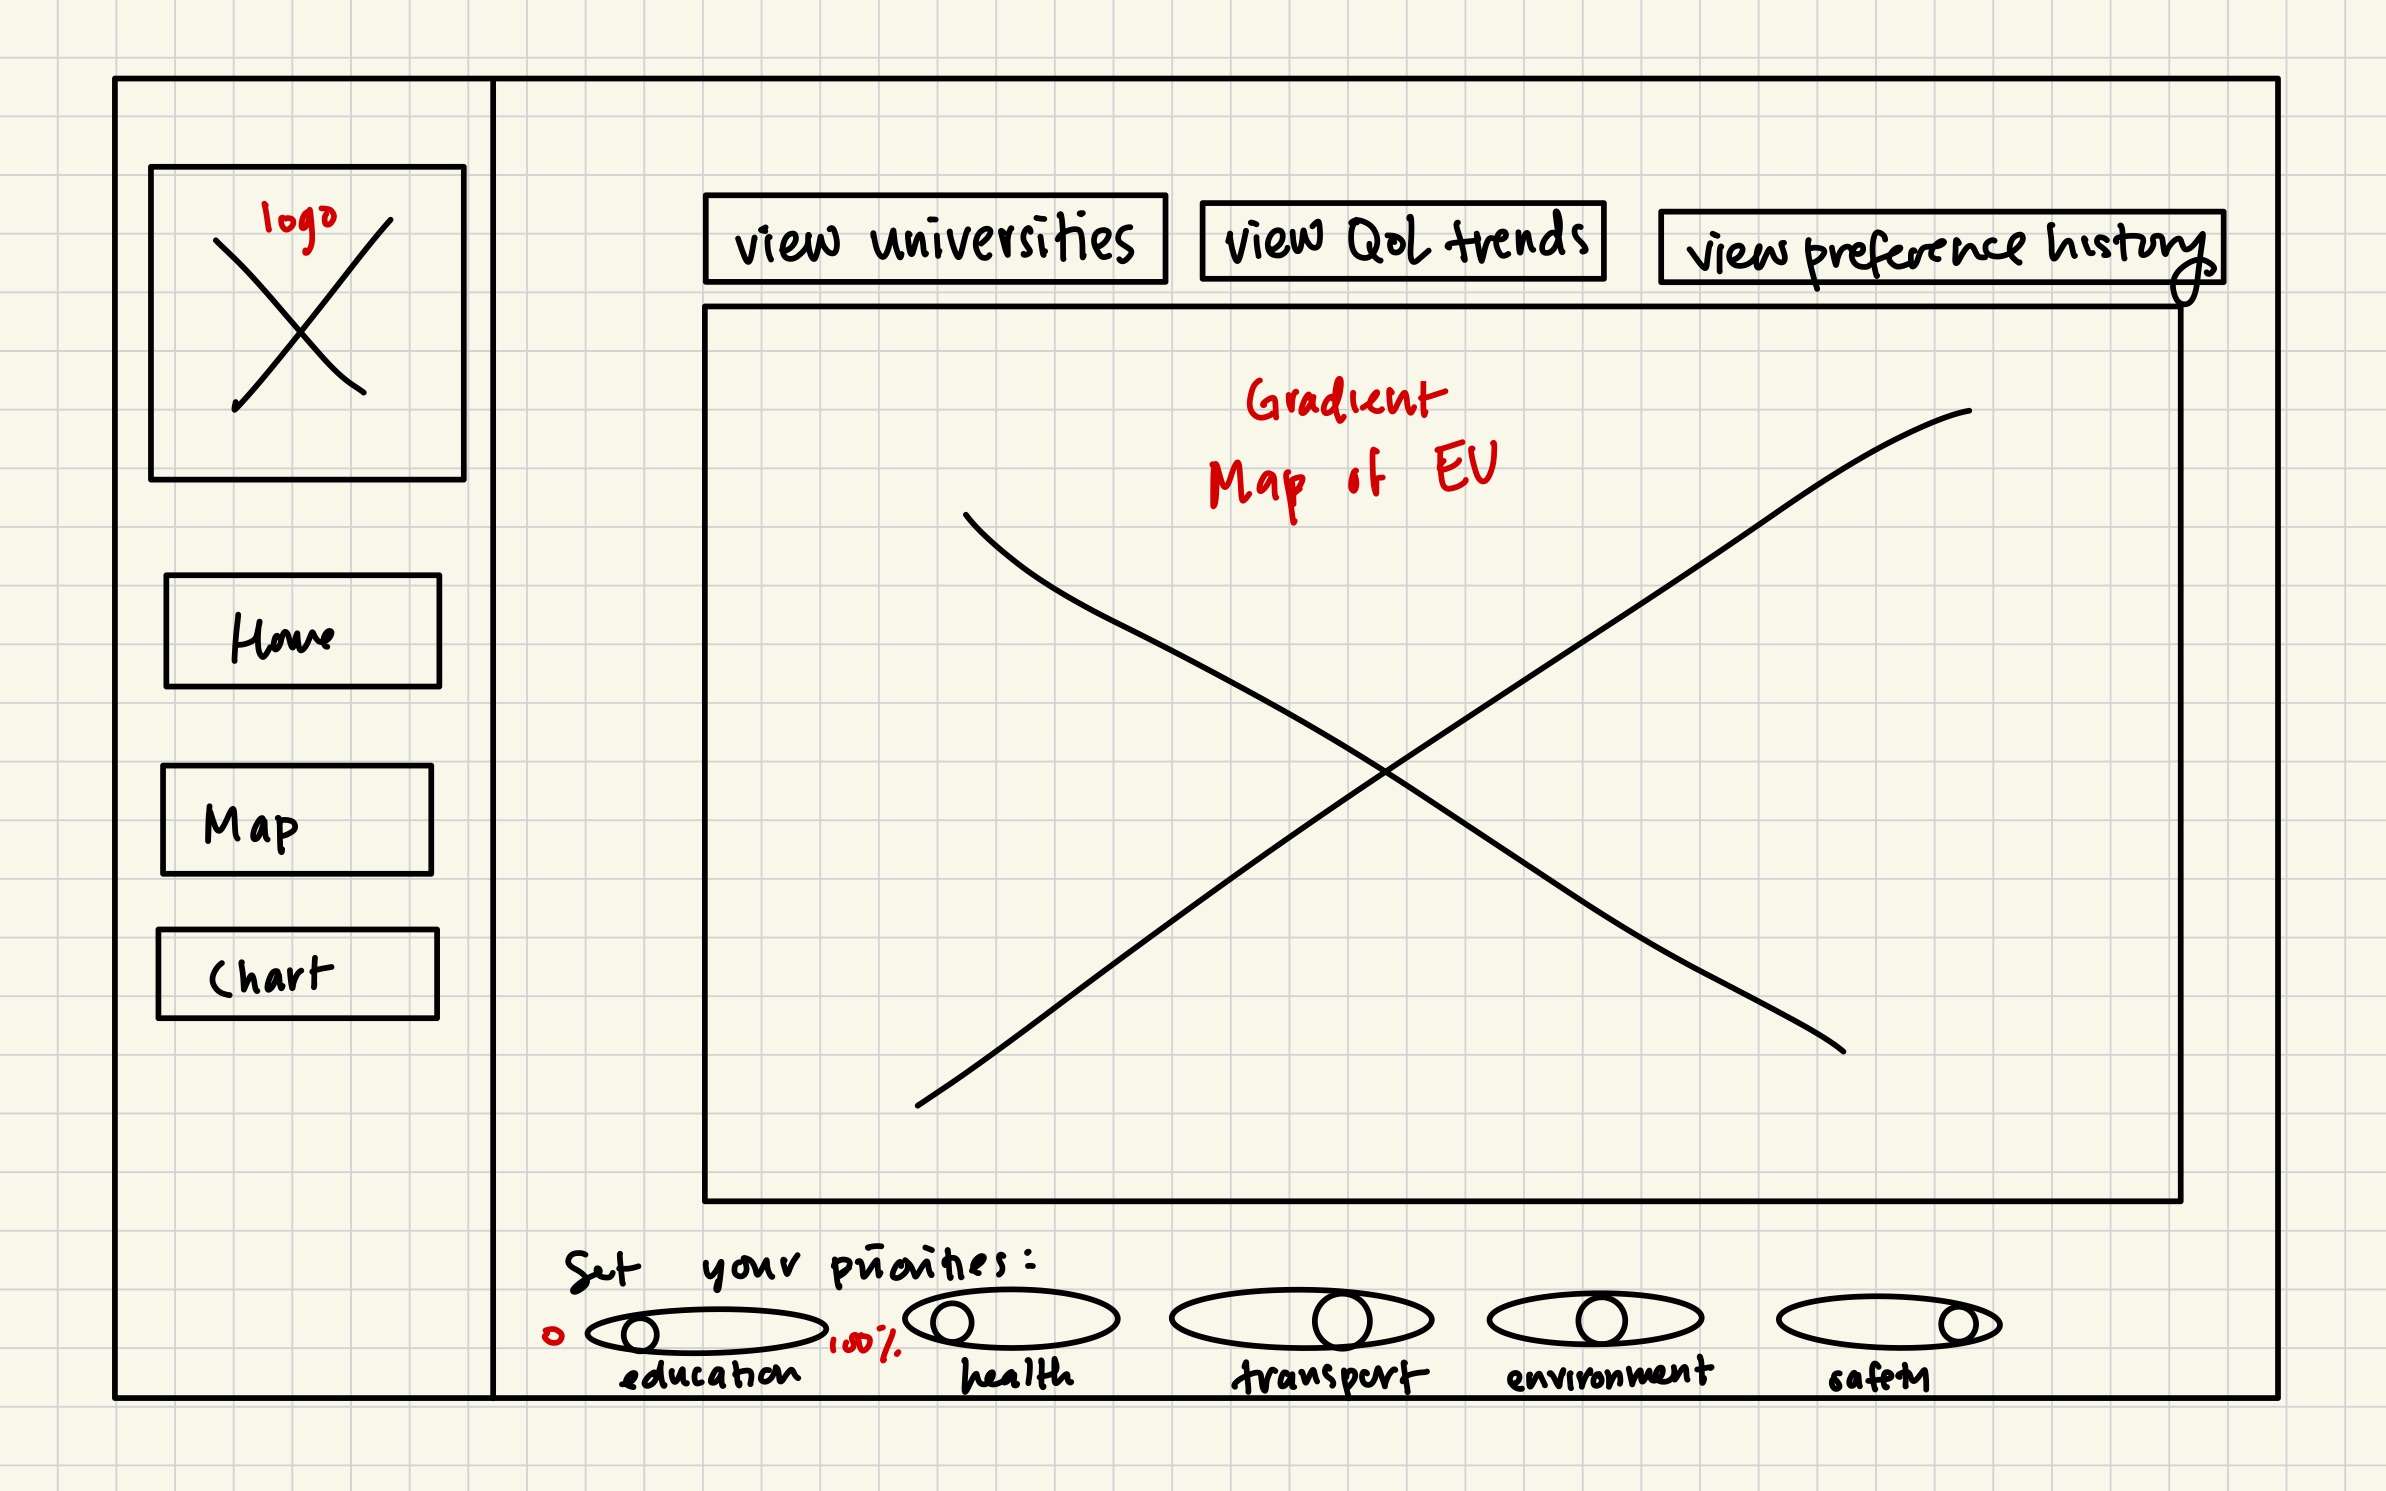
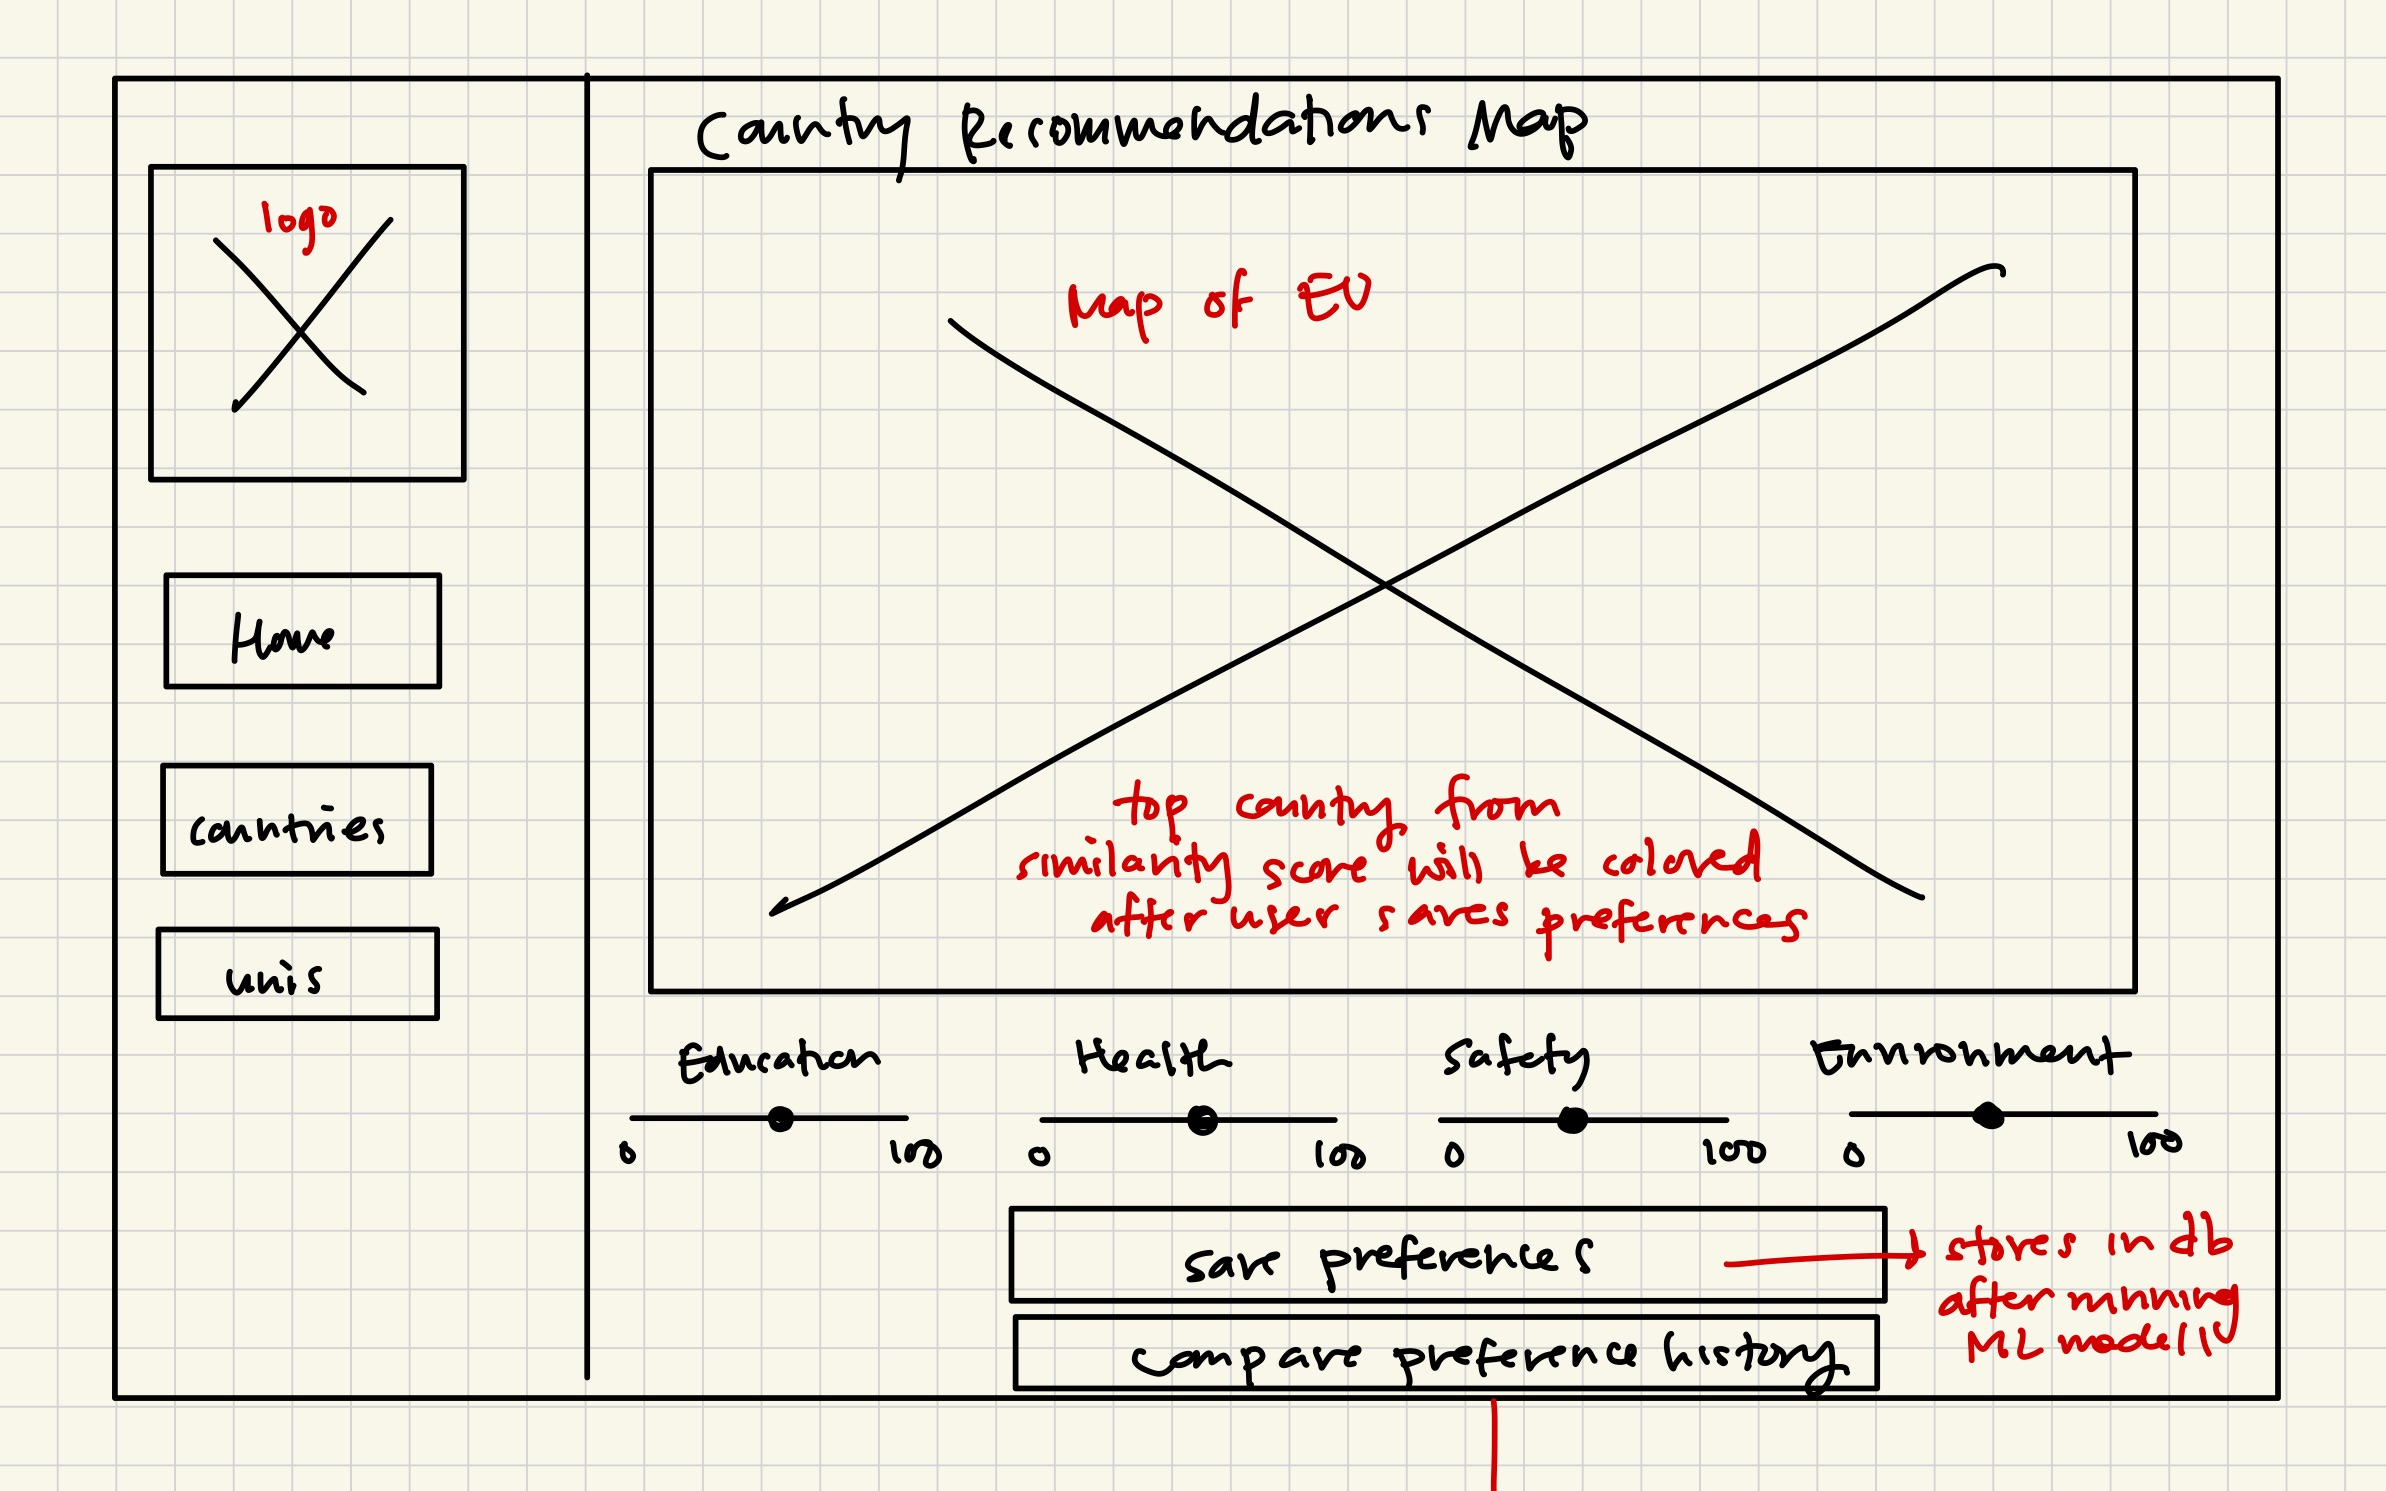
changed wireframes and erd

diff --git a/content/team_posts/phase2.md b/content/team_posts/phase2.md
@@ -52,33 +52,27 @@ This model can be found at https://github.com/mke27/life/blob/main/ml-src/cos_si
 ![wireframe1_img](er_diagrams-06.jpg)
 Title page.
 ![wireframe2_img](er_diagrams-07.jpg)
-Welcome/Home page for Persona 2, Grace.
+Welcome/Home page for Persona 1, Grace.
 ![wireframe3_img](er_diagrams-08.jpg)
-This page shows a gradient map for which Grace can change her priorities. It will display the countries that are most appealing to her and will allow her to navigate to a universities page, a QoL trends page, and a history page.
+This page shows a gradient map for which Grace can change her priorities. It will display the countries that are most appealing to her.
 ![wireframe4_img](er_diagrams-09.jpg)
 This page allows Grace to select which prior priority sets she wants to compare in the form of the top recommended country.
 ![wireframe5_img](er_diagrams-10.jpg)
-The priority sets that she chooses will show up side by side with each country's past QoL score and predicted scores.
-![wireframe6_img](er_diagrams-11.jpg)
 This page will display the top 3 universities in Grace's top recommended country. She will be able to click on each one and contact an admissions officer.
-![wireframe7_img](er_diagrams-12.jpg)
-This page hows the QoL overtime and predicted for one country that Grace clicks on the map.
-![wireframe8_img](er_diagrams-13.jpg)
+![wireframe6_img](er_diagrams-11.jpg)
 This is Persona 2's (James) landing page.
+![wireframe7_img](er_diagrams-12.jpg)
+By selecting a factor, he can view recent news from the EU Commission and click links to the articles.
+![wireframe8_img](er_diagrams-13.jpg)
+James can view his country's most similar country and also the country score stats. 
 ![wireframe9_img](er_diagrams-14.jpg)
-James can view his country's most similar country and also his country's lowest scoring factor. By selecting a factor, he can view recent news from the EU Commission and click links to the articles.
-![wireframe10_img](er_diagrams-15.jpg)
-James can click on his most similar country in order to view a chart showing that country's similarity score compared to other countries.
-![wireframe11_img](er_diagrams-16.jpg)
 Landing page for Persona 3, Faye.
+![wireframe10_img](er_diagrams-15.jpg)
+This is a map of the EU which will show which country has the lowest score in the chosen factor.
+![wireframe11_img](er_diagrams-16.jpg)
+TBD chart
 ![wireframe12_img](er_diagrams-17.jpg)
-Faye can select her organization's area of interest and will view a map showing each country's rate of change in that factor. She can click on each country to learn more on the next page.
-![wireframe13_img](er_diagrams-18.jpg)
-This chart shows the country's factor score over time and the predicted score. The scores of each factor in thi country will also be displayed.
-![wireframe14_img](er_diagrams-19.jpg)
-This is an opportunity for Faye to post on an external social media site. She can upload a photo and text.
-![wireframe15_img](er_diagrams-20.jpg)
-Faye can view her recent posts here.
+Faye can view existing organizations given the country and factor she chooses.
 
 ## ER Diagrams
 
